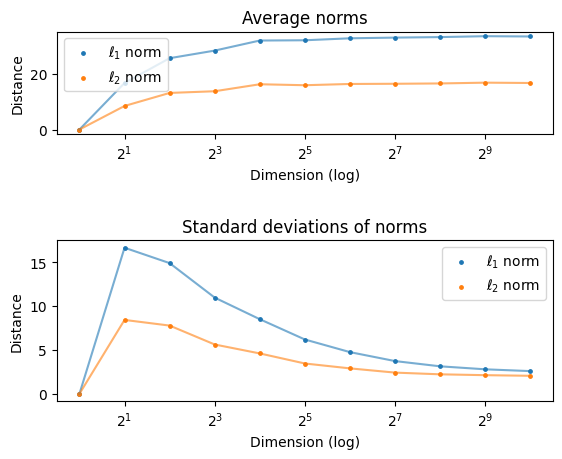
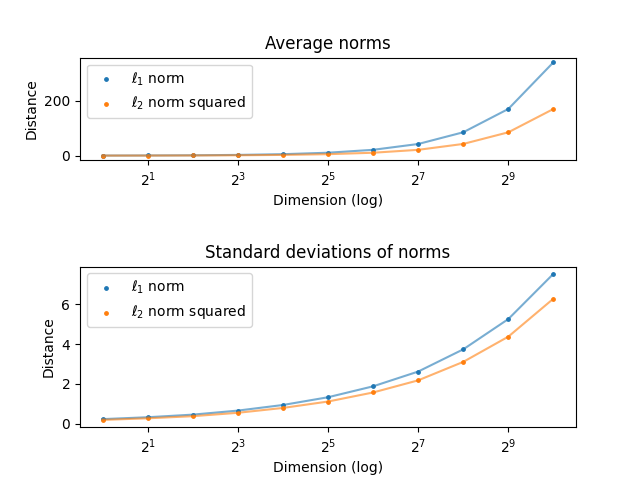
figure

diff --git a/assignment1/q1/q1.py b/assignment1/q1/q1.py
@@ -1,0 +1,76 @@
+import numpy as np
+import matplotlib.pyplot as plt
+
+D = 11
+dimensions = np.array([2 ** i for i in range(D)])
+
+
+def l1_norm(x, y):
+    return np.sum(np.abs(x - y))
+
+
+def l2_norm_naive(x, y):
+    s = 0
+    for i in range(len(x)):
+        s += (x[i] - y[i]) ** 2
+    return np.sqrt(s)
+
+
+def squared_l2_norm(x, y):
+    return np.sum(np.square(x - y))
+
+
+l1_norm_avgs = np.zeros(D)
+l1_norm_stds = np.zeros(D)
+
+l2_norm_squared_avgs = np.zeros(D)
+l2_norm_squared_stds = np.zeros(D)
+
+num_points = 200
+
+for i, d in enumerate(dimensions):
+    points = np.random.rand(num_points, d)
+
+    l1_distances = np.array(
+        [l1_norm(points[i], points[j]) for i in range(num_points) for j in range(i + 1, num_points)])
+
+    l2_distances = np.array(
+        [squared_l2_norm(points[i], points[j]) for i in range(num_points) for j in range(i + 1, num_points)])
+
+    l1_norm_avgs[i] = np.mean(l1_distances)
+    l1_norm_stds[i] = np.std(l1_distances)
+
+    l2_norm_squared_avgs[i] = np.mean(l2_distances)
+    l2_norm_squared_stds[i] = np.std(l2_distances)
+
+fig = plt.figure()
+
+ax = fig.add_subplot(3, 1, 1)
+
+ax.scatter(dimensions, l1_norm_avgs, marker='o', s=6, label='$\ell_1$ norm')
+ax.plot(dimensions, l1_norm_avgs, alpha=0.6)
+ax.scatter(dimensions, l2_norm_squared_avgs, marker='o', s=6, label='$\ell_2$ norm squared')
+ax.plot(dimensions, l2_norm_squared_avgs, alpha=0.6)
+ax.set_title('Average norms')
+ax.set_xlabel('Dimension (log)')
+ax.set_ylabel('Distance')
+
+ax.set_xscale('log', base=2)
+ax.legend()
+
+ax = fig.add_subplot(2, 1, 2)
+
+ax.scatter(dimensions, l1_norm_stds, marker='o', s=6, label='$\ell_1$ norm')
+ax.plot(dimensions, l1_norm_stds, alpha=0.6)
+ax.scatter(dimensions, l2_norm_squared_stds, marker='o', s=6, label='$\ell_2$ norm squared')
+ax.plot(dimensions, l2_norm_squared_stds, alpha=0.6)
+ax.set_title('Standard deviations of norms')
+ax.set_xlabel('Dimension (log)')
+ax.set_ylabel('Distance')
+
+ax.set_xscale('log', base=2)
+ax.legend()
+
+fig.subplots_adjust(hspace=0.3)
+
+plt.savefig("figures/output.png")
